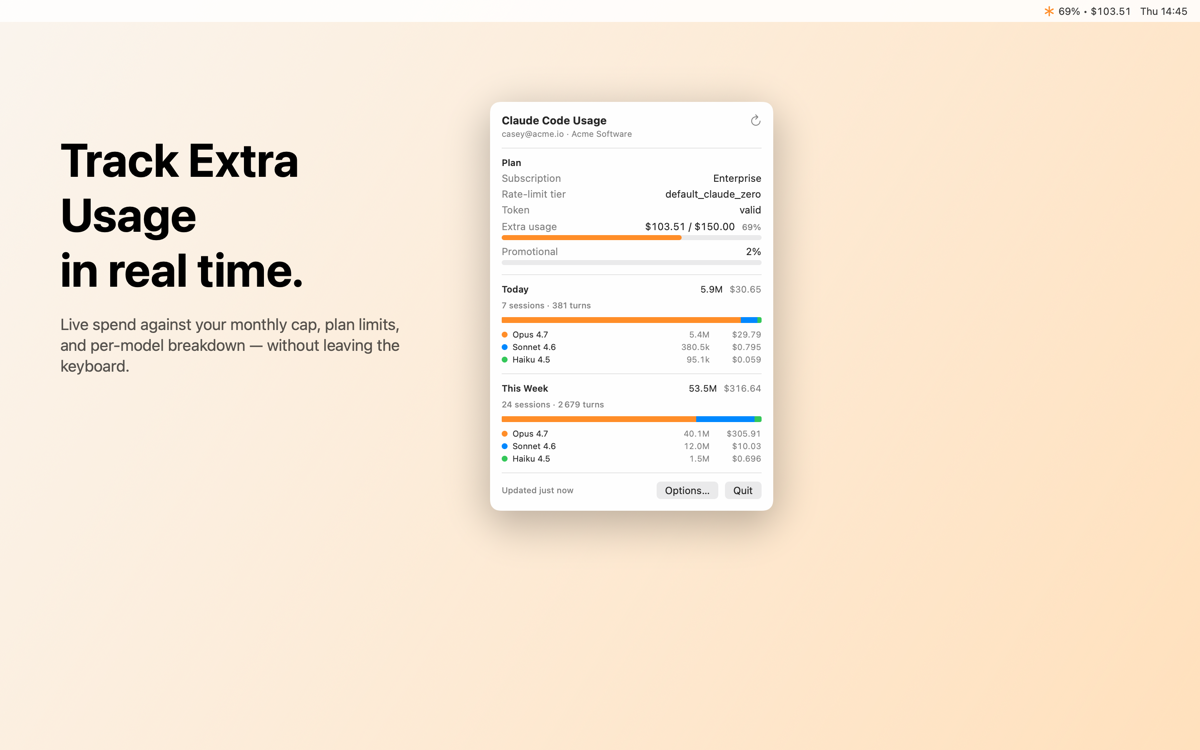
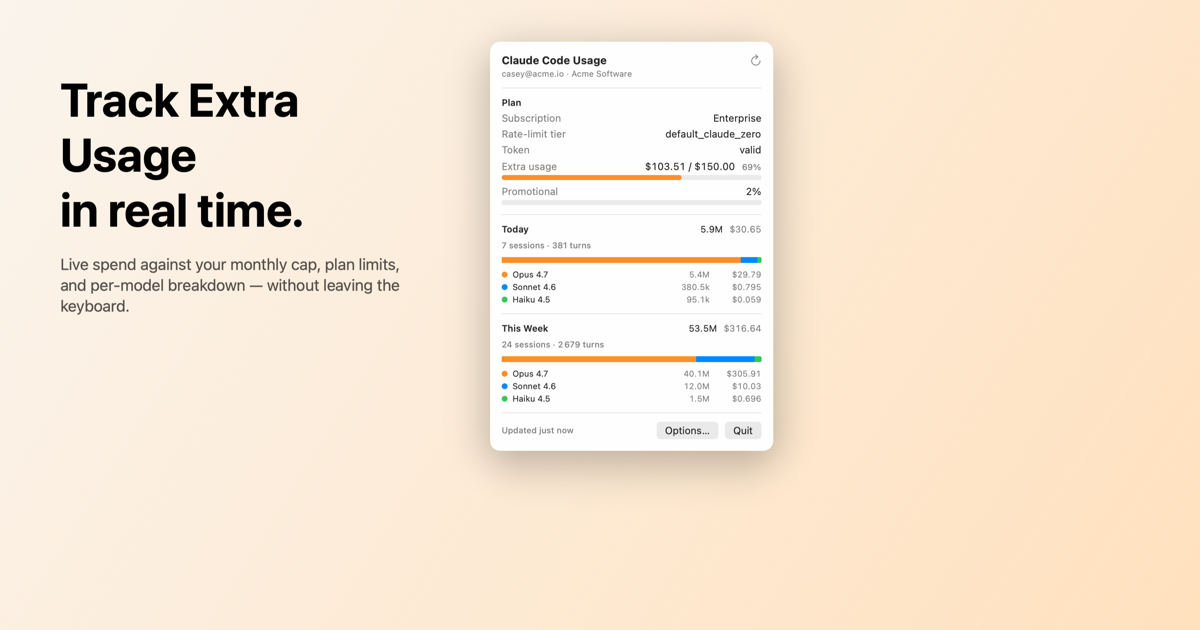
Add full social-preview meta tags and 1200×630 OG card
When pasting https://claudestatus.runlocal.dev/ into Slack, Discord,
iMessage, Telegram, Twitter/X, etc. those crawlers want a specific shape
of metadata to render a rich thumbnail.

- og-image regenerated at the canonical 1200×630 (1.91:1) by cropping
  the existing Enterprise marketing canvas around its center band and
  resizing — keeps the headline + dropdown both visible.
- Full Open Graph block: og:site_name / og:locale / og:image:width /
  og:image:height / og:image:type / og:image:alt / og:image:secure_url.
- Twitter large-card block with matching title/description/image/alt.
- canonical link, color-scheme + paired theme-color (light + dark),
  apple-touch-icon + mask-icon, application-name + Apple-web-app names.
- JSON-LD SoftwareApplication block so Google + crawlers that read
  structured data get a clean record (price 0 / macOS 14+ / GitHub
  release as downloadUrl).

Also picks up the GCP setup script tweaks (custom role rename,
europe-west1 region, gcloud configuration activation).

diff --git a/website/index.html b/website/index.html
@@ -6,17 +6,68 @@
 
   <title>Claude Status — macOS menu bar for Claude Code usage</title>
   <meta name="description" content="A tiny macOS menu bar app that monitors your Claude Code usage. Live plan limits, per-model breakdown, API-equivalent cost — without leaving the keyboard.">
-  <meta name="theme-color" content="#d97757">
+  <link rel="canonical" href="https://claudestatus.runlocal.dev/">
 
-  <meta property="og:title" content="Claude Status — Claude Code usage in your menu bar">
-  <meta property="og:description" content="Live spend, plan limits, per-model breakdown. Reuses your Claude Code login. Open source, free, native Swift.">
-  <meta property="og:image" content="https://claudestatus.runlocal.dev/assets/og-image.png">
-  <meta property="og:url" content="https://claudestatus.runlocal.dev/">
+  <meta name="theme-color" content="#d97757" media="(prefers-color-scheme: light)">
+  <meta name="theme-color" content="#1a1613" media="(prefers-color-scheme: dark)">
+  <meta name="color-scheme" content="light dark">
+
+  <meta name="application-name" content="Claude Status">
+  <meta name="apple-mobile-web-app-title" content="Claude Status">
+  <meta name="apple-mobile-web-app-capable" content="yes">
+  <meta name="apple-mobile-web-app-status-bar-style" content="default">
+  <meta name="format-detection" content="telephone=no">
+  <meta name="author" content="Baptiste Collard">
+  <meta name="generator" content="hand-rolled HTML">
+  <meta name="robots" content="index, follow">
+
+  <!-- Open Graph / Facebook / Slack / Discord / iMessage / Telegram -->
   <meta property="og:type" content="website">
-  <meta name="twitter:card" content="summary_large_image">
+  <meta property="og:site_name" content="Claude Status">
+  <meta property="og:locale" content="en_US">
+  <meta property="og:url" content="https://claudestatus.runlocal.dev/">
+  <meta property="og:title" content="Claude Status — Claude Code usage in your menu bar">
+  <meta property="og:description" content="Live plan limits, today's spend, weekly cap, per-model breakdown. Reuses your Claude Code login. Open source, free, native Swift.">
+  <meta property="og:image" content="https://claudestatus.runlocal.dev/assets/og-image.png">
+  <meta property="og:image:secure_url" content="https://claudestatus.runlocal.dev/assets/og-image.png">
+  <meta property="og:image:type" content="image/png">
+  <meta property="og:image:width" content="1200">
+  <meta property="og:image:height" content="630">
+  <meta property="og:image:alt" content="Claude Status dropdown showing Extra Usage progress and per-model token breakdown.">
 
-  <link rel="icon" type="image/svg+xml" href="assets/favicon.svg">
-  <link rel="stylesheet" href="styles.css">
+  <!-- Twitter / X large card -->
+  <meta name="twitter:card" content="summary_large_image">
+  <meta name="twitter:url" content="https://claudestatus.runlocal.dev/">
+  <meta name="twitter:title" content="Claude Status — Claude Code usage in your menu bar">
+  <meta name="twitter:description" content="Live plan limits, today's spend, weekly cap, per-model breakdown. Reuses your Claude Code login. Open source, free, native Swift.">
+  <meta name="twitter:image" content="https://claudestatus.runlocal.dev/assets/og-image.png">
+  <meta name="twitter:image:alt" content="Claude Status dropdown showing Extra Usage progress and per-model token breakdown.">
+
+  <!-- Icons -->
+  <link rel="icon" type="image/svg+xml" href="/assets/favicon.svg">
+  <link rel="alternate icon" type="image/png" href="/assets/favicon.svg">
+  <link rel="apple-touch-icon" href="/assets/favicon.svg">
+  <link rel="mask-icon" href="/assets/favicon.svg" color="#d97757">
+
+  <link rel="stylesheet" href="/styles.css">
+
+  <!-- Structured data (helps Google + some chat apps surface metadata) -->
+  <script type="application/ld+json">
+  {
+    "@context": "https://schema.org",
+    "@type": "SoftwareApplication",
+    "name": "Claude Status",
+    "applicationCategory": "DeveloperApplication",
+    "operatingSystem": "macOS 14+",
+    "url": "https://claudestatus.runlocal.dev/",
+    "downloadUrl": "https://github.com/bcollard/claude-status-macos-menu-bar/releases",
+    "description": "A native macOS menu bar app that monitors Claude Code usage. Live plan limits, per-model breakdown, API-equivalent cost.",
+    "license": "https://github.com/bcollard/claude-status-macos-menu-bar/blob/main/LICENSE",
+    "offers": { "@type": "Offer", "price": "0", "priceCurrency": "USD" },
+    "softwareVersion": "0.1.0",
+    "image": "https://claudestatus.runlocal.dev/assets/og-image.png"
+  }
+  </script>
 </head>
 <body>
 
